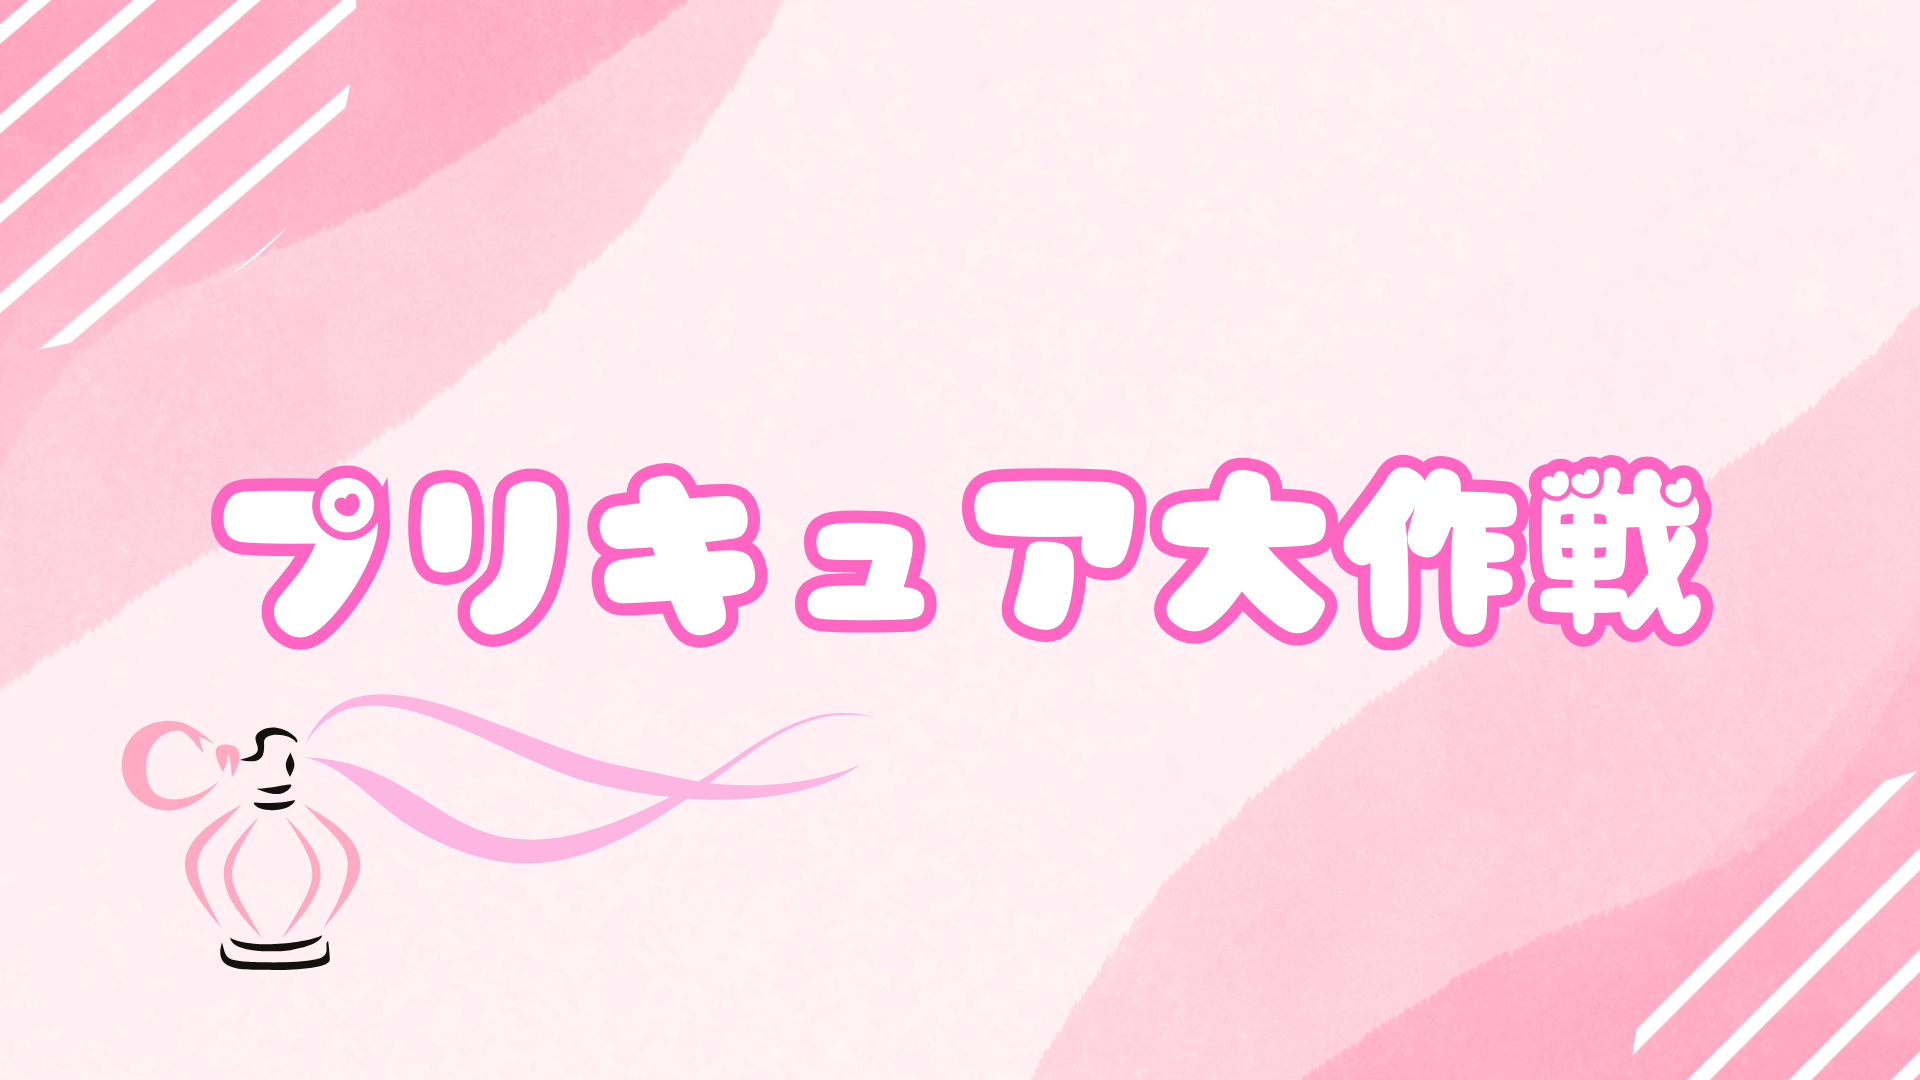
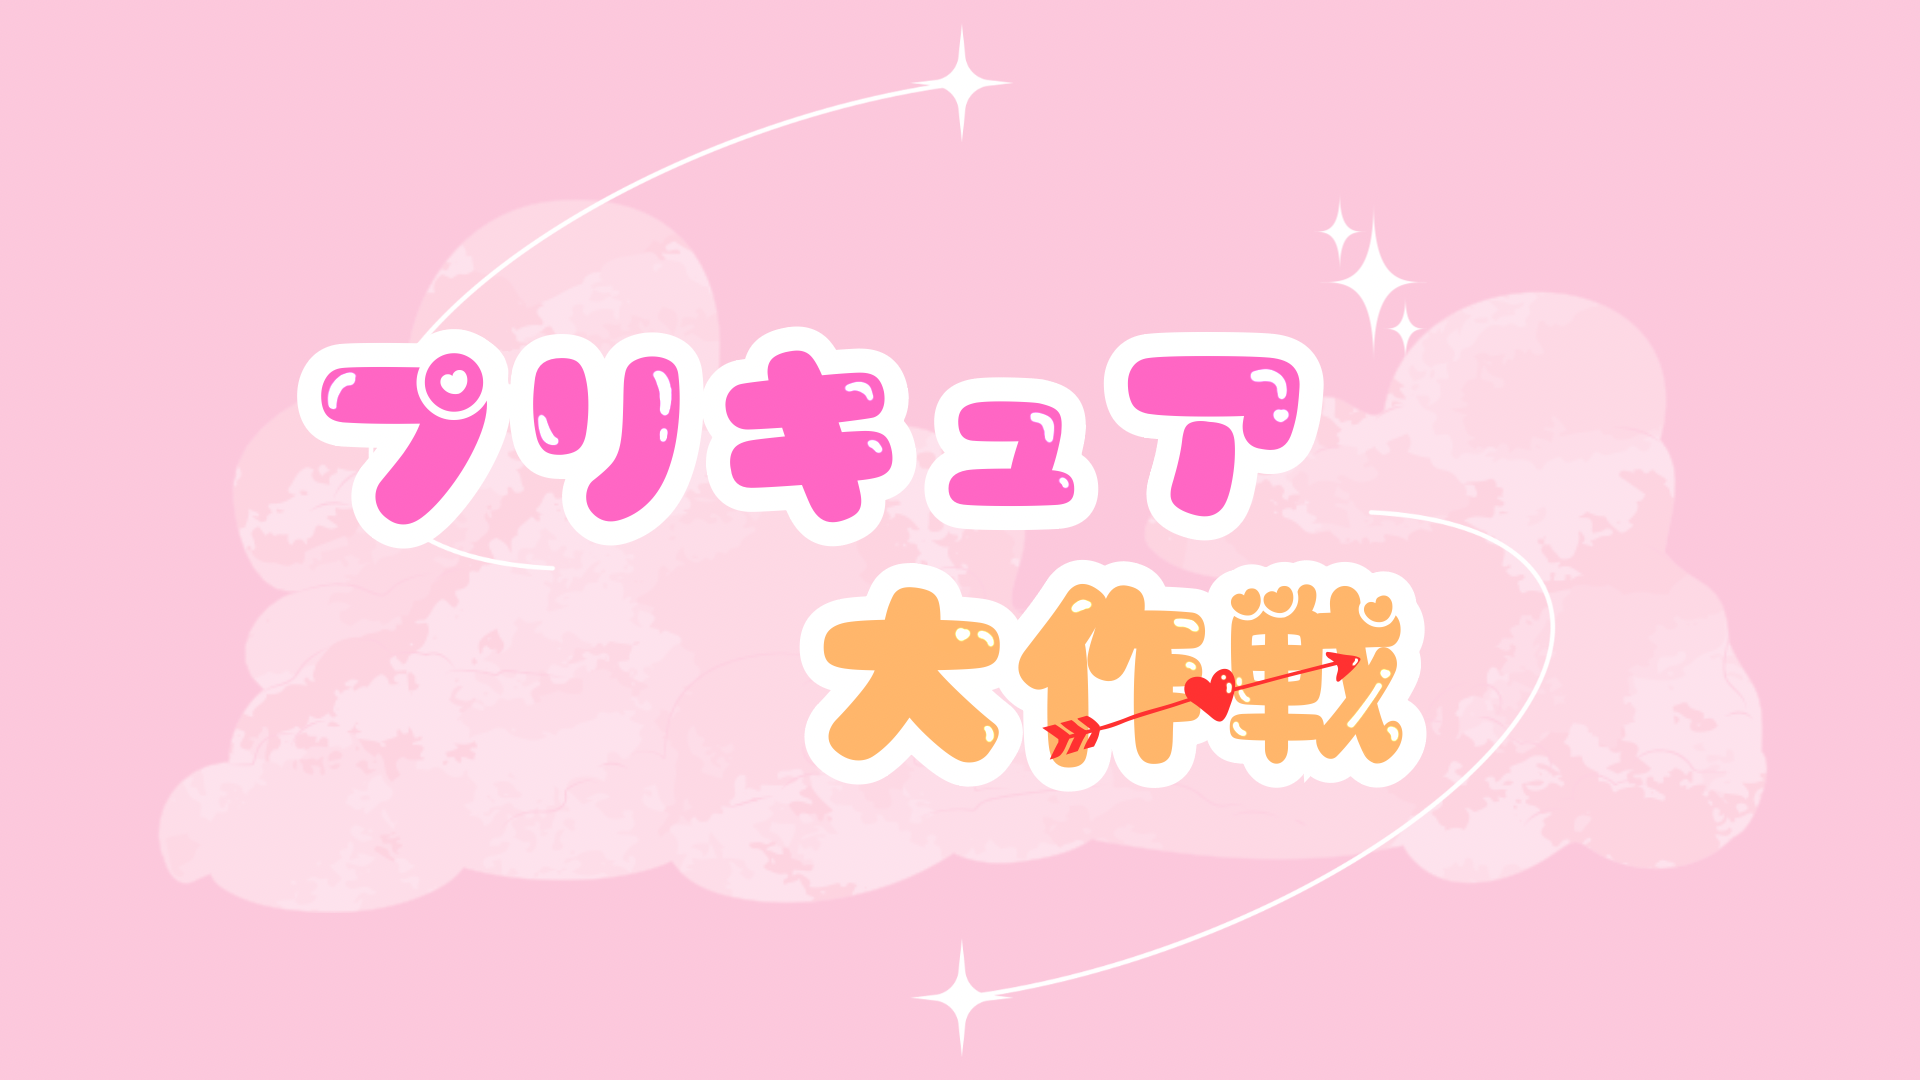
top画像変更

diff --git a/src/pages/home.jsx b/src/pages/home.jsx
@@ -62,7 +62,7 @@ const Home = () => {
 
       <section id="rule" className="mb-12 text-center">
         <div className="p-6 mb-2 border-2 border-dashed border-paleyellow">
-          <p className="text-3xl sm:text-4xl lg:text-5xl font-bold p-4">
+          <p className="text-3xl sm:text-4xl lg:text-4xl font-bold p-4">
             ✨プリキュアみたいに部屋着から大変身しよう✨
           </p>
         </div>
